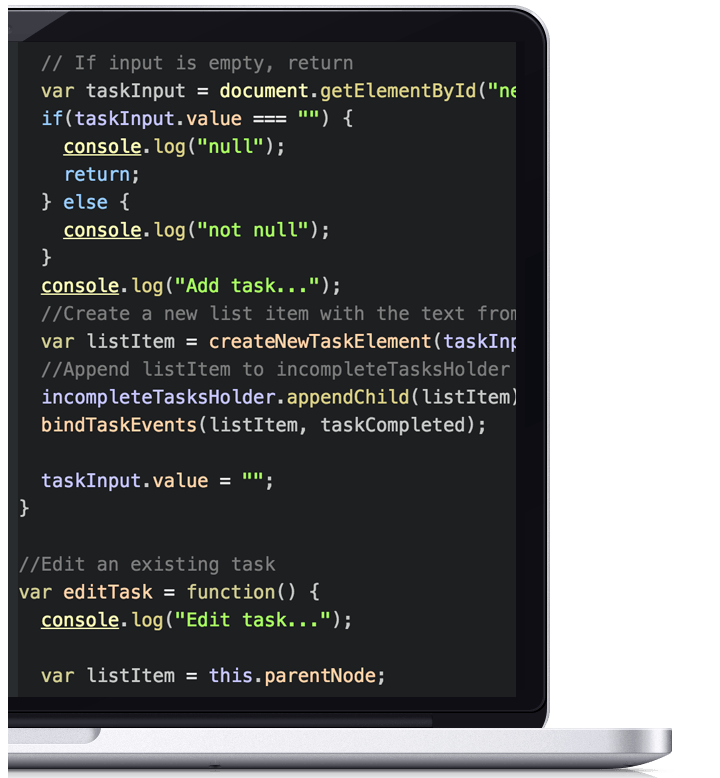
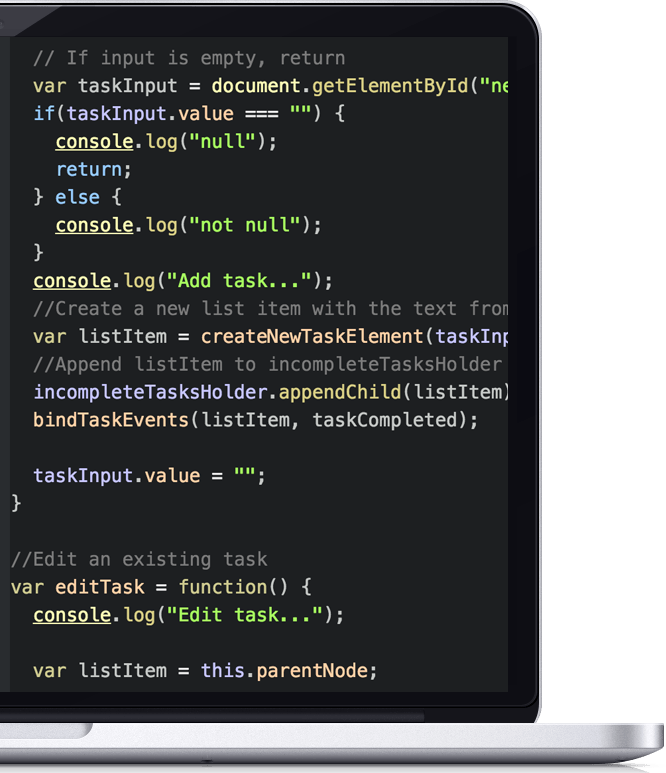
split computer screen on portfolio selection

diff --git a/style.css b/style.css
@@ -1,3 +1,5 @@
+/* ===== HOME ====== */
+/* ===== Dev Portfolio ====== */
 body {
   background-color: #218380;
   color: #FFFFFF;
@@ -36,8 +38,24 @@ h1 {
 h2 {
   font-size: 1.7em; }
 
-#photo-dev {
+/* ===== HOME ====== */
+body.home .column {
+  padding: 10px; }
+
+.photo-dev {
   display: none;
   margin: 0 auto; }
 
[1 lines of base64/hex data omitted]
+/* ===== Dev Portfolio ====== */
+body.dev-portfolio h2 {
+  animation: fadeMeIn 0.5s; }
+
+@keyframes fadeMeIn {
+  0% {
+    opacity: 0;
+    left: 100px; }
+  100% {
+    opacity: 1;
+    left: 10px; } }
+
[1 lines of base64/hex data omitted]

diff --git a/resources/js/app.js b/resources/js/app.js
@@ -16,36 +16,51 @@ window.addEventListener("scroll", changeNavIcon);
 
 /*===== HOME ======= */
 
-// create development button
-var devButton = document.getElementById("btn-dev");
-var container = document.getElementsByClassName("container")[0];
-
-// change image size of photo dev image on home page based on window height
-var homeImg = document.getElementById("photo-dev");
+/*
+  change image size of photo dev image on home page based on window height
+*/
+var homeImg = document.getElementsByClassName("photo-dev");
 var adjustHomeImageSize = function () {
   var imageHeight = window.innerHeight * 0.7;
-  homeImg.style.height = imageHeight + "px";
-  homeImg.style.width = "auto";
-  homeImg.style.display = "block";
+  console.log(imageHeight);
+  for(var i = 0; i < homeImg.length; i++) {
+    homeImg[i].style.height = imageHeight + "px";
+    homeImg[i].style.width = "auto";
+    homeImg[i].style.display = "inline";
+  }
 };
-
 window.addEventListener("load", adjustHomeImageSize);
 
-devButton.addEventListener("click", function(event){
-  event.preventDefault();
+/*
+  animate computer screen when user chooses portfolio
+*/
+var columns = document.getElementsByClassName("column");
+var potfolioButton = document.getElementsByClassName("btn-portfolio");
+var duration = 650;
 
-  // animate out the home container
-  $( container ).animate({
-    opacity: 0,
-    marginLeft: "-=200",
-  }, 650, function() {
-    // Animation complete.
+for (var i = 0; i < columns.length; i++) {
+  potfolioButton[i].addEventListener("click", function(event){
+    event.preventDefault();
 
-    // redirect to dev site
-    console.log("animation is done");
-    window.location = "file:///Users/lauraevans/Desktop/programming/portfolio_site/dev.html";
-  });
+    // split computer apart and fade
+    $( columns[0] ).animate({
+      opacity: 0,
+      left: "-=50"
+    },
+    {
+      start: function() {
+        $( columns[1] ).animate({
+          opacity: 0,
+          left: "+=50"
+        }, duration );
+      },
+      duration: duration,
+      complete: function() {
+        // Animation complete.
+        //window.location = "file:///Users/lauraevans/Desktop/programming/portfolio_site/index.html";
+        window.location = "file:///Users/lauraevans/Desktop/programming/portfolio_site/dev.html";
+      } // end complete function
+    }); // end
 
-
-  console.log(container);
-});
+  }); // end portfolio button event listener
+} // end for loop

diff --git a/index.html b/index.html
@@ -16,7 +16,7 @@
   <link href="style.css" rel="stylesheet">
 </head>
 
-<body>
+<body class="home">
   <nav>
     <h1 class="text-center">Laura Evans</h1>
     <span class="glyphicon glyphicon-envelope" aria-hidden="true"></span>
@@ -24,16 +24,13 @@
 
   <div class="container">
     <div class="row">
-      <div class="col-md-12">
-        <img id="photo-dev" class="img-responsive" src="images/photo_dev.png" />
+      <div class="column col-xs-6 text-right">
+        <img class="photo-dev" class="img-responsive" src="images/home_photo.png" />
+        <h2><a class="btn-portfolio light" href="">Photographer</a></h2>
       </div>
-    </div>
-    <div class="row">
-      <div class="col-xs-6">
-        <h2 class="text-right"><a class="light" href="">Photographer</a></h2>
-      </div>
-      <div class="col-xs-6">
-        <h2 class="text-left"><a id="btn-dev" class="light" href="">Web Developer</a></h2>
+      <div class="column col-xs-6 text-left">
+        <img class="photo-dev" class="img-responsive" src="images/home_dev.png" />
+        <h2><a class="btn-portfolio light" href="">Web Developer</a></h2>
       </div>
     </div>
   </div>

diff --git a/resources/sass/style.scss b/resources/sass/style.scss
@@ -1,3 +1,7 @@
+// Table of Contents
+/* ===== HOME ====== */
+/* ===== Dev Portfolio ====== */
+
 // variables
 $primary_color: #218380;
 
@@ -46,7 +50,32 @@ h1 {
 h2 {
   font-size: 1.7em;
 }
-#photo-dev {
+
+/* ===== HOME ====== */
+body.home {
+  .column {
+    padding: 10px;
+  }
+}
+.photo-dev {
   display: none;
   margin: 0 auto;
+}
+
+/* ===== Dev Portfolio ====== */
+body.dev-portfolio {
+  h2 {
+    animation: fadeMeIn 0.5s;
+  }
+}
+
+@keyframes fadeMeIn {
+  0% {
+    opacity: 0;
+    left: 100px;
+  }
+  100% {
+    opacity: 1;
+    left: 10px;
+  }
 }

diff --git a/dev.html b/dev.html
@@ -17,13 +17,13 @@
 
 </head>
 
-<body>
+<body class="dev-portfolio">
   <nav>
     <h1 class="text-center">Laura Evans</h1>
   </nav>
 
   <div class="container">
-    <h2>Dev Site</h2>
+    <h2 class="text-center">Dev Site</h2>
   </div>
 
   <script src="https://ajax.googleapis.com/ajax/libs/jquery/3.1.0/jquery.min.js"></script>
